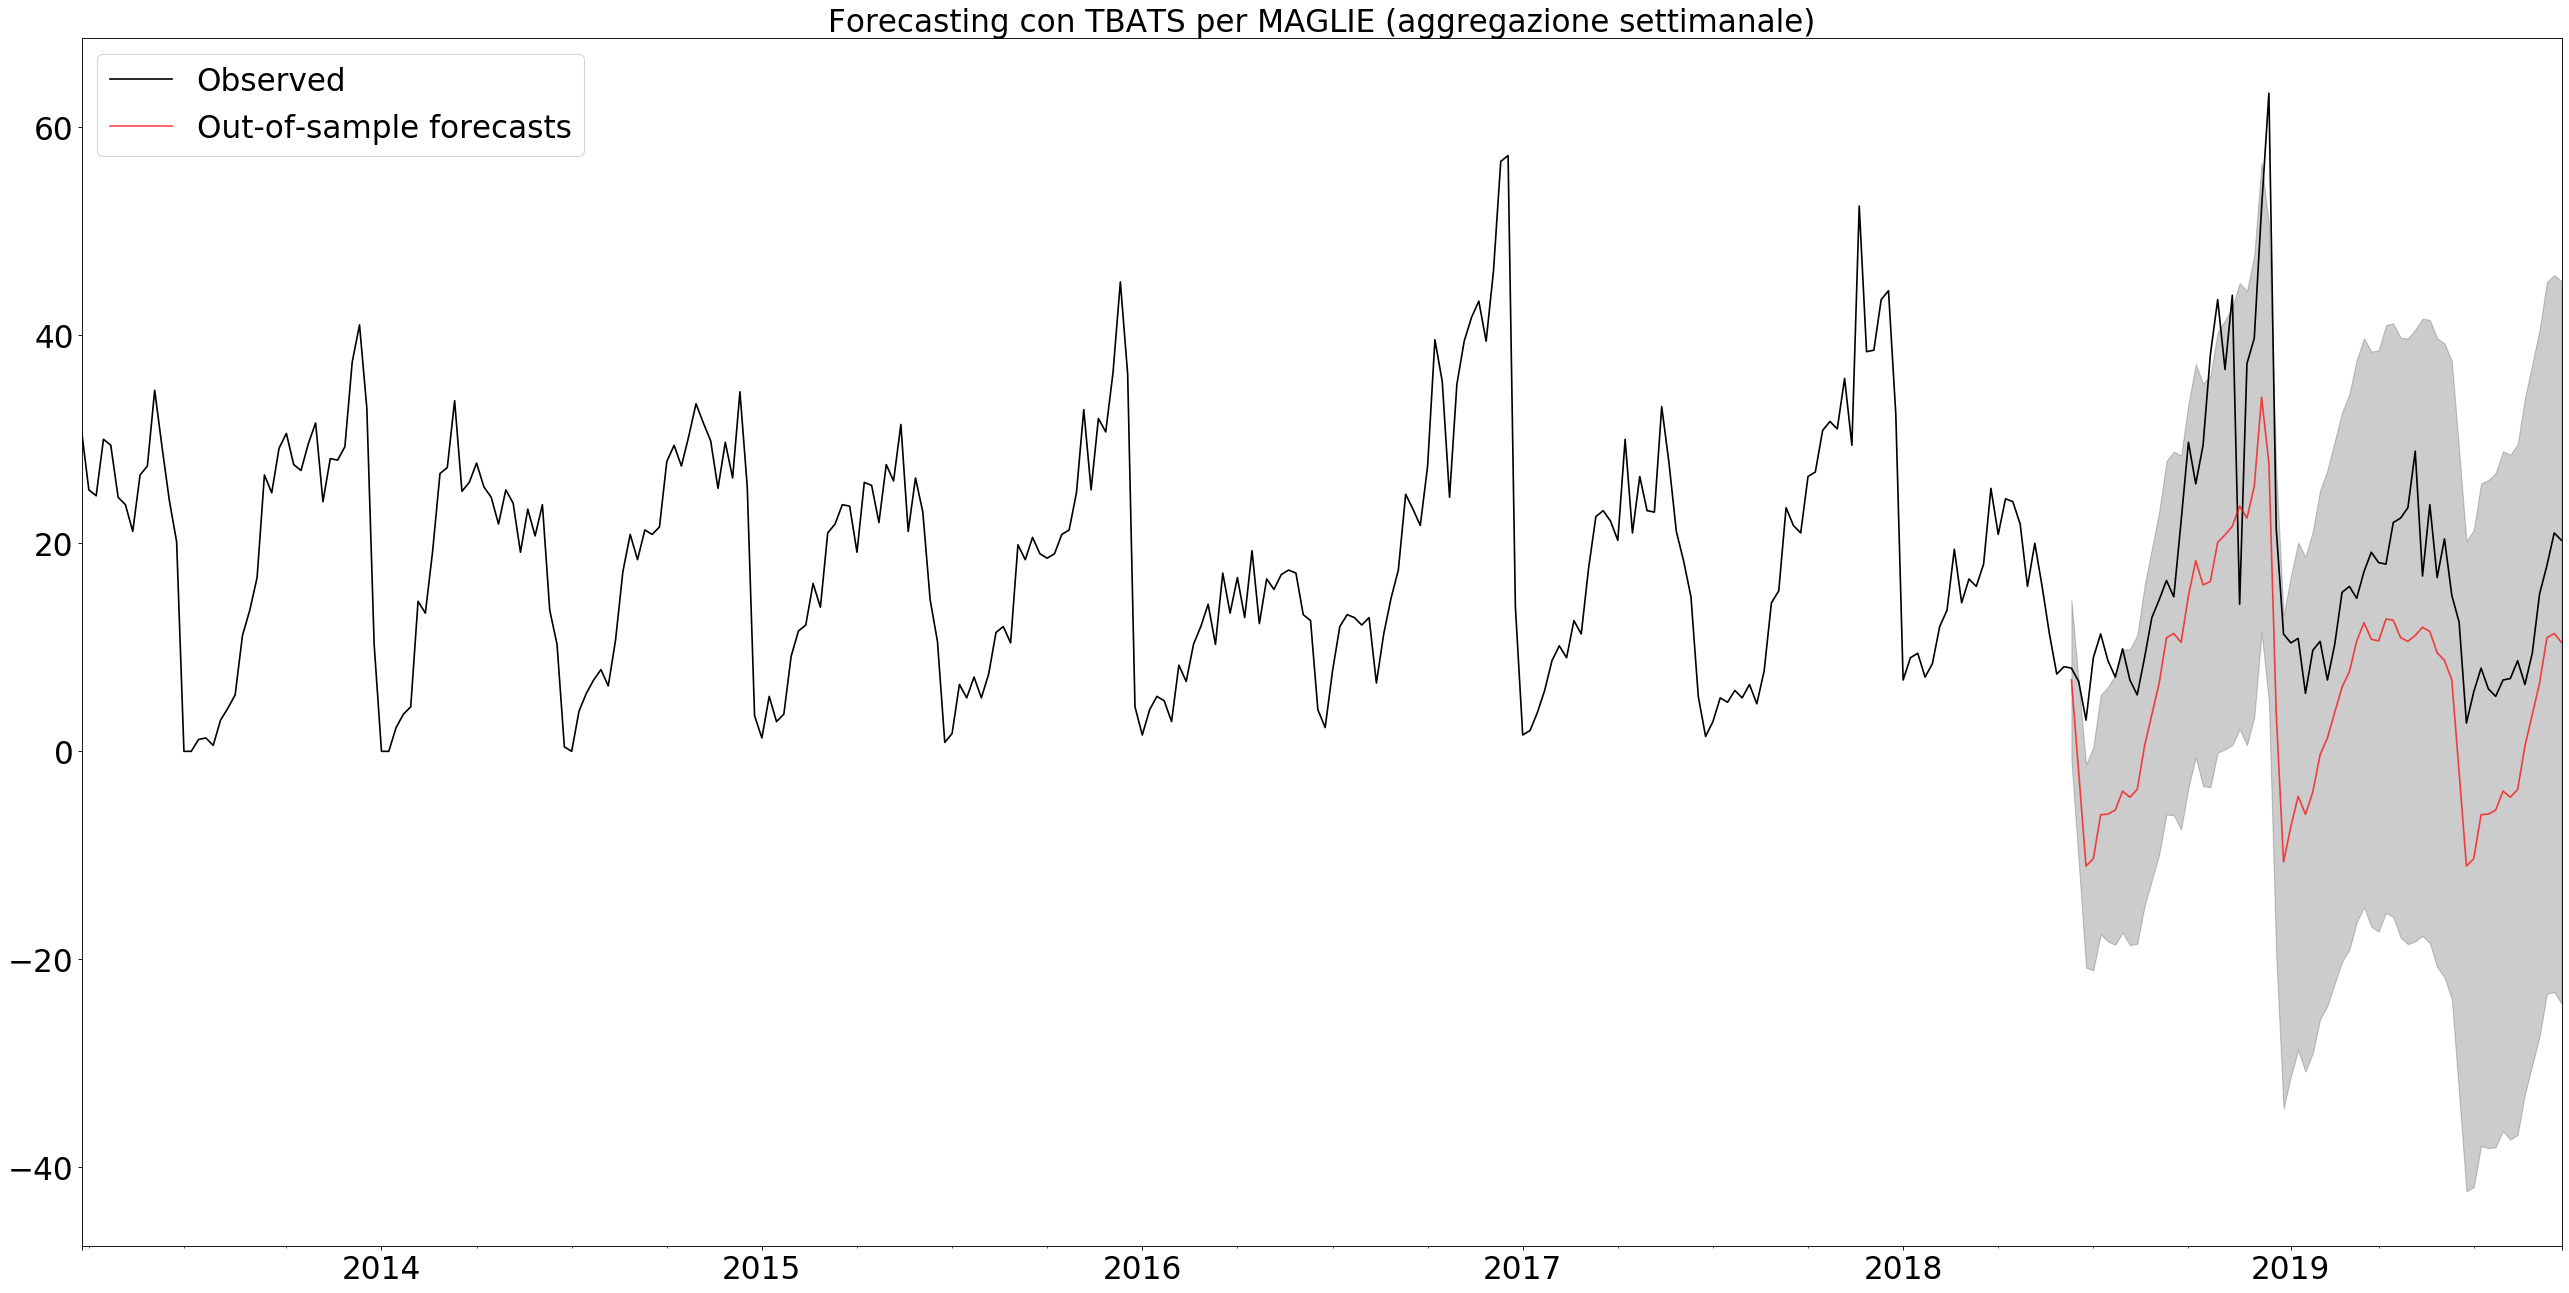
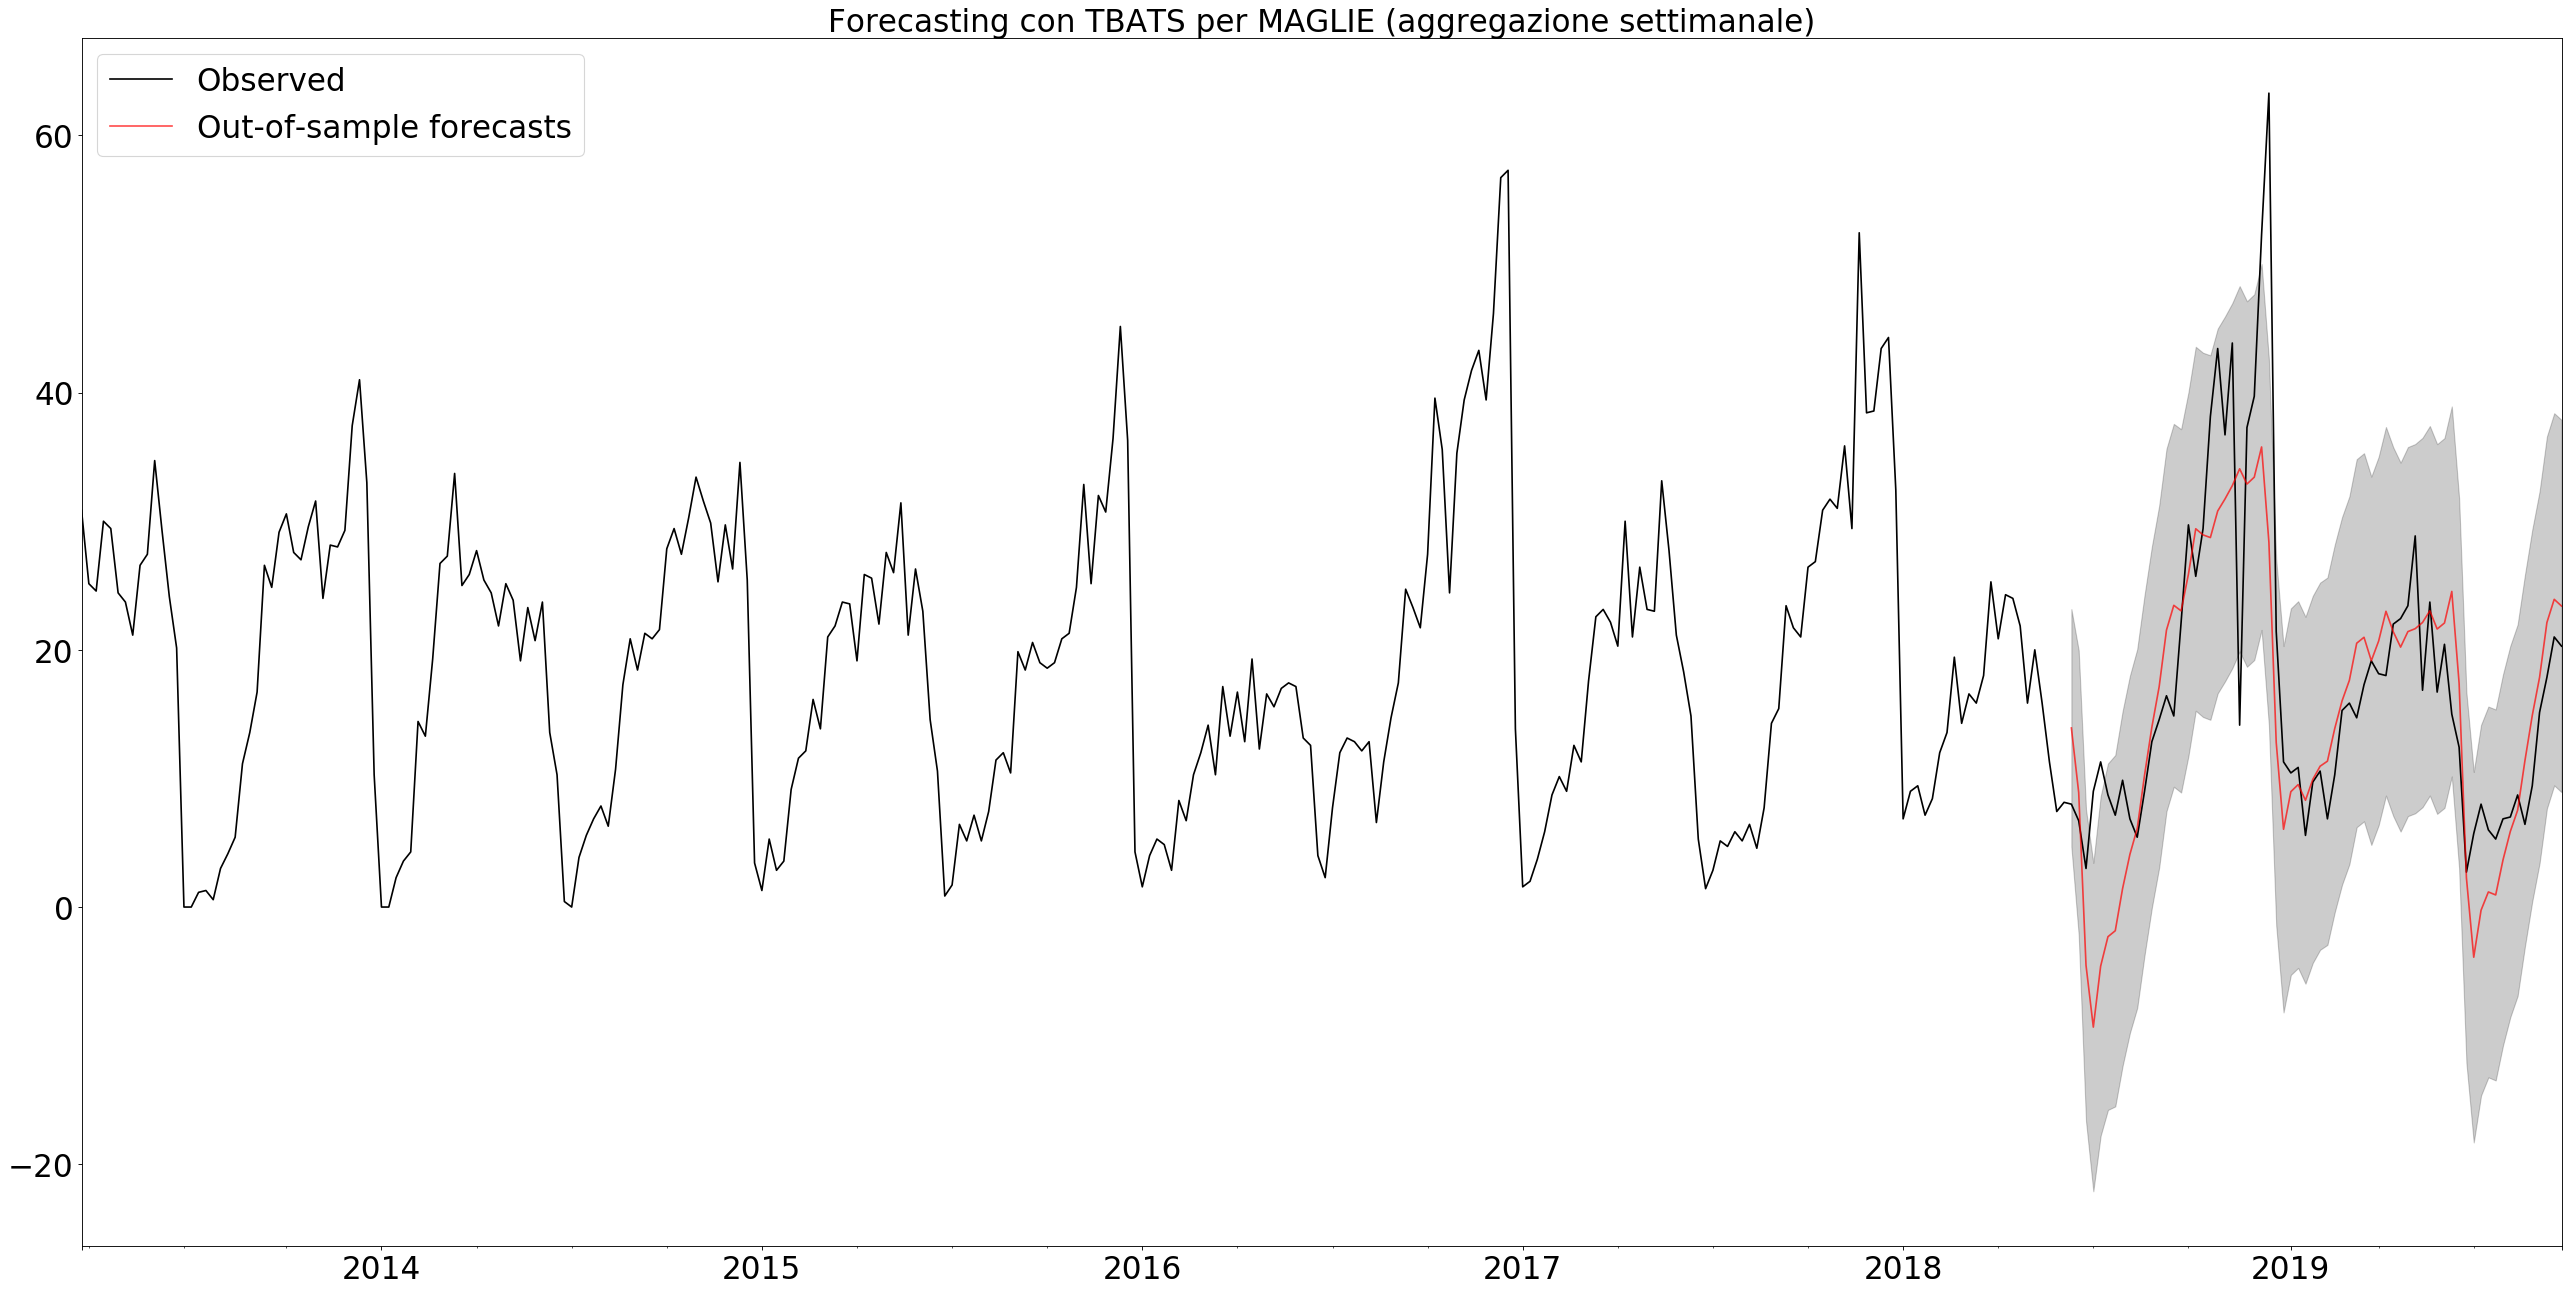
aggiunta stagionalità semestrale a tbats

diff --git a/script_davide.py b/script_davide.py
@@ -590,8 +590,8 @@ if __name__ == '__main__':
     #sarimax_statsmodels(ts, 0.8, o, new_so) # errore di memoria
     
     # %% TBATS
-    tbats_model(ts, 0.8, [7, 365.25], slow=False)
-    tbats_forecasting(ts, 100, [7, 365.25], slow=False)
+    tbats_model(ts, 0.8, [7, 365.25, 182.625], slow=False)
+    tbats_forecasting(ts, 100, [7, 365.25, 182.625], slow=False)
        
     # %% Aggregazione settimanale dei dati tramite media
     # serie aggiustata togliendo le settimane incomplete all'inizio e alla fine:
@@ -617,7 +617,7 @@ if __name__ == '__main__':
     sarimax_statsmodels(new_ts, 0.8, o, new_so)
     
     # tbats 52:
-    tbats_model(new_ts, 0.8, [52], slow=False)
+    tbats_model(new_ts, 0.8, [52, 26], slow=False)
     
 # %% ==================================DEBUG==================================
 timeseries = ts
@@ -626,3 +626,5 @@ m = 365
 s = [7, 365.25]
 h = 100
 slow=False
+o = (1,0,2)
+so = (1,0,1,7)
